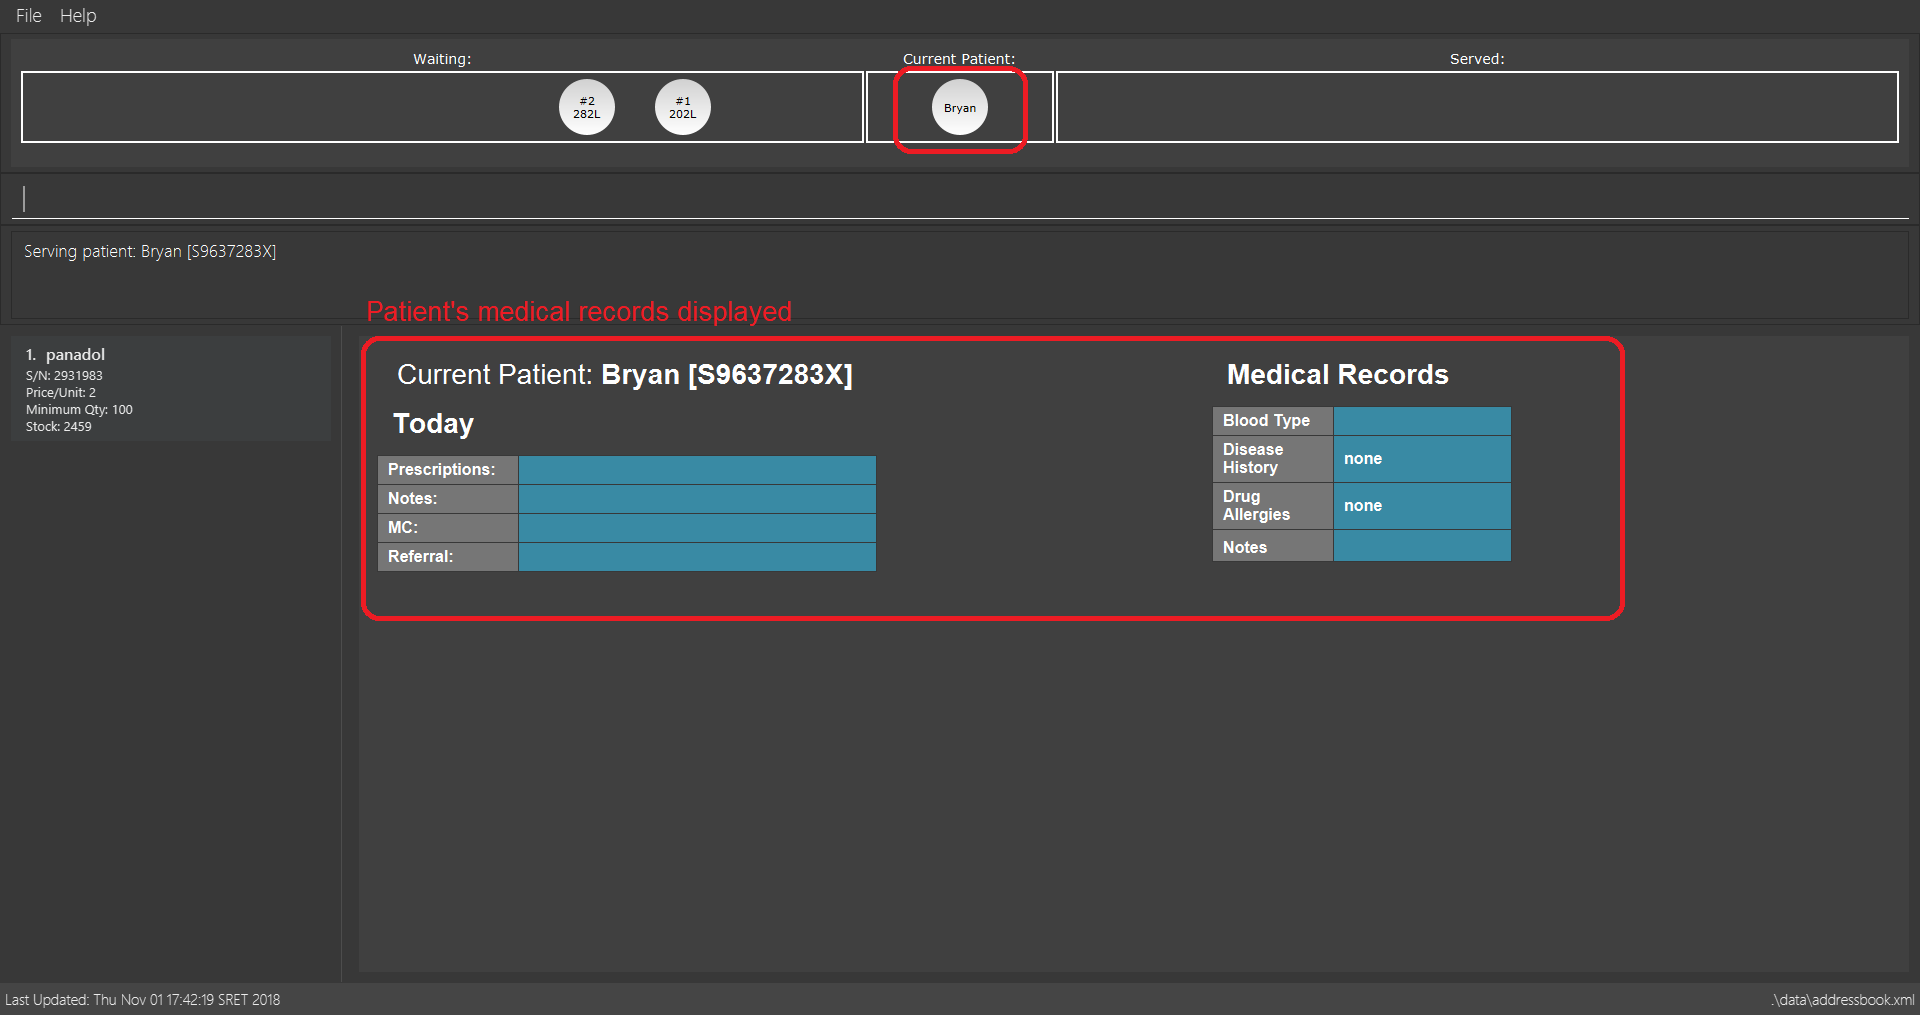
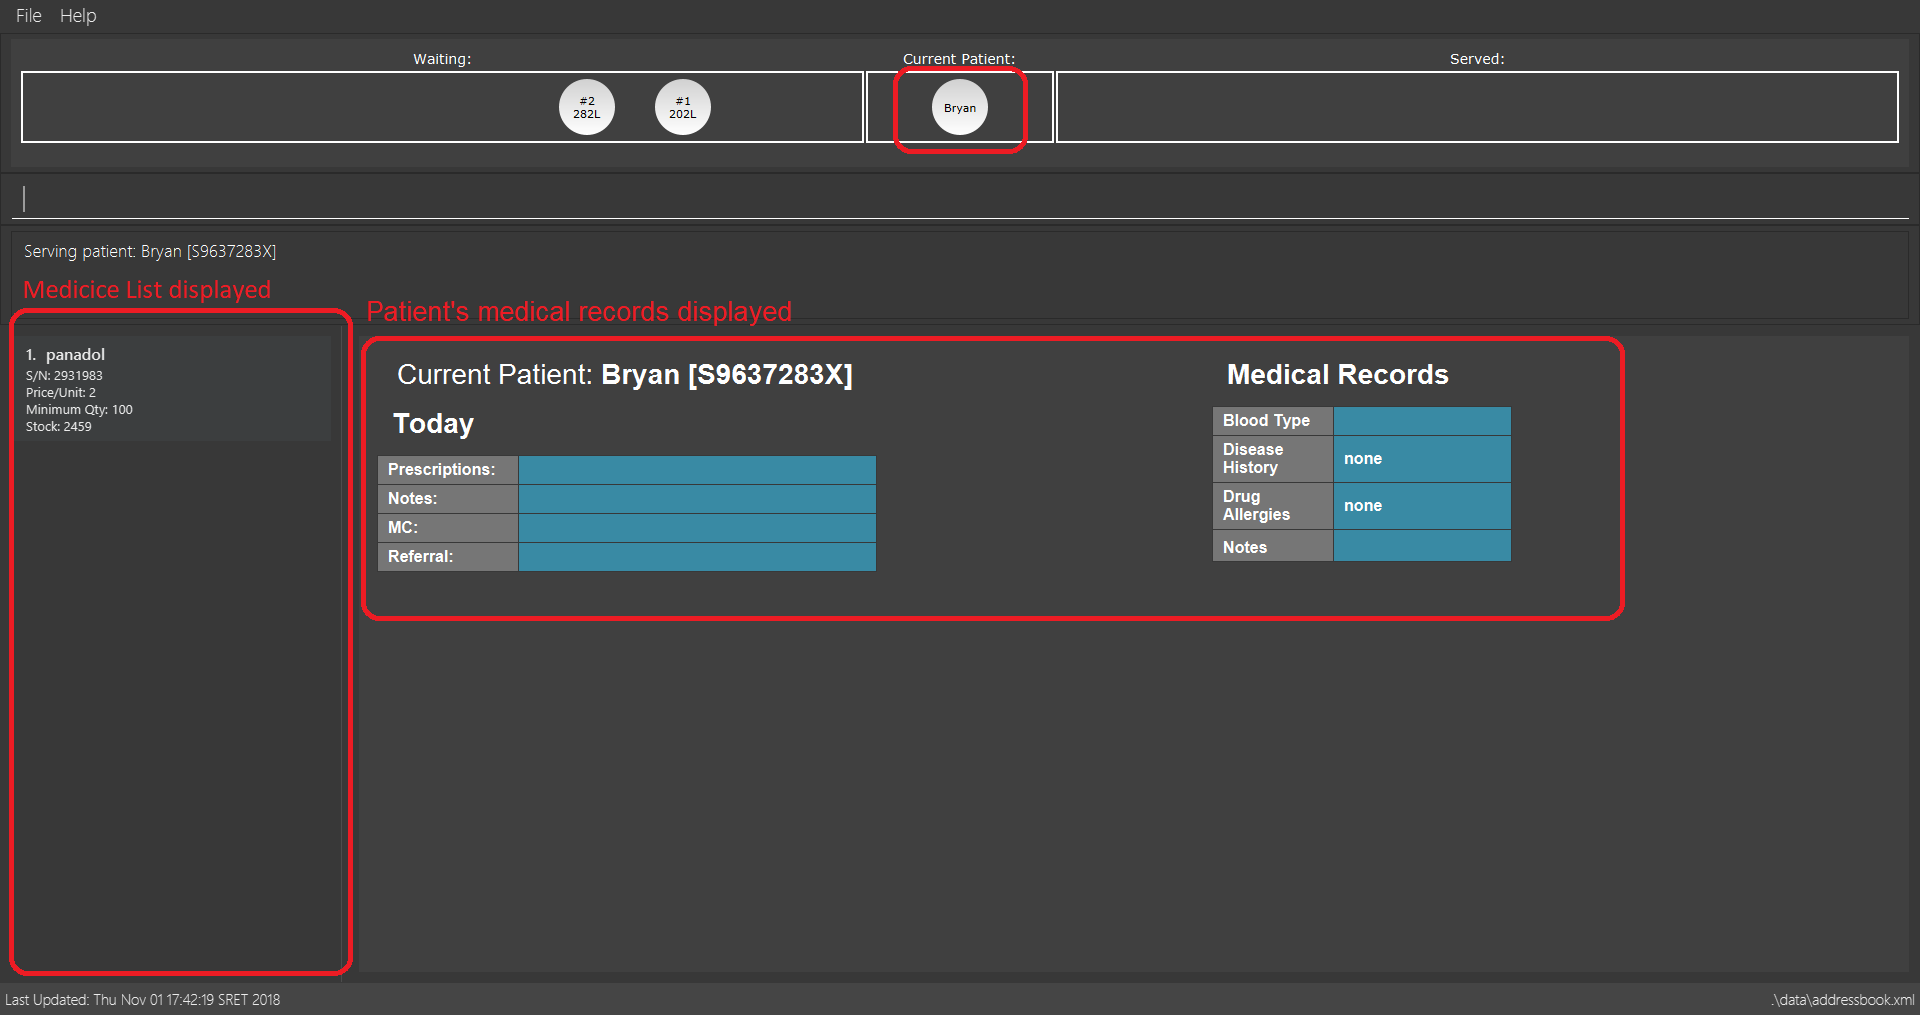
Fix display bugs with PQMS-commands Update UserGuide

Changed region(s): [[0.0, 0.9468, 0.1875, 0.9773], [0.0, 0.2749, 0.1562, 0.336], [0.1562, 0.3054, 0.1875, 0.336]]

diff --git a/src/main/resources/view/Documents/Receipt_For_Bryan_S9637283X.html b/src/main/resources/view/Documents/Receipt_For_Bryan_S9637283X.html
@@ -1,0 +1,81 @@
+<!DOCTYPE html>
+<html lang="en">
+<head>
+    <meta charset="UTF-8">
+    <title>Receipt for Bryan</title>
+    <script>
+        function loadDetails(titleString, headerString, nameString, icString, contentString) {
+            document.title = titleString;
+            document.getElementById("headerDiv").innerHTML = headerString;
+            document.getElementById("nameDiv").innerHTML = nameString;
+            document.getElementById("icDiv").innerHTML = icString;
+            document.getElementById("contentDiv").innerHTML = contentString;
+        }
+    </script>
+    <h1>
+        <img src = "../../images/CLInicLogo.PNG" alt = "CLInic's logo" align = "right" height="70px" width="350px">
+        <div class = "header" id="headerDiv">Receipt<br>Issued On: 01/11/2018 23:08:52</div>
+    </h1>
+</head>
+<div class="main">
+    <table>
+        <tr>
+            <td><div class = information>Name:</div></td>
+            <td><div class = field id="nameDiv">Bryan</div></td>
+        </tr>
+        <tr>
+            <td><div class = information>IC Number:</div></td>
+            <td><div class = field id="icDiv">S9637283X</div></td>
+        </tr>
+    </table>
+    <br>
+    <span id="contentDiv"><table ID = "contentTable" width = 100%><col width = "700"><tr ID = "receiptHeader"><div class="contentHeader"><th>Prescription</th><th>Quantity</th><th>Unit Price</th><th>Total Price</th></div></tr><tr ID = "receiptEnd"><td>Grand Total:</td><td>-</td><td>-</td><td>0.00</td></tr></table></span>
+    <br>
+    <span style=" display: block; text-align: center">Have a nice day!</span>
+</div>
+</html>
+
+<style>
+    html {
+        margin-left: 24px;
+        margin-right: 24px;
+        border-top: 2px solid black;
+        border-bottom: 2px solid black;
+    }
+    h1 {
+        border-bottom: 1px solid black;
+    }
+    .header {
+        font-size: 24px;
+        display: inline;
+    }
+    .main{
+        font-size: 20px;
+    }
+    .information{
+        font-weight: bold;
+    }
+    .field{
+        border-bottom: 1px solid black;
+    }
+    table {
+        border-collapse:collapse;
+    }
+    th, td {
+        text-align: left;
+        padding: 8px;
+    }
+    #receiptHeader{
+        font-weight: bold;
+        border-bottom: 1px solid black;
+    }
+
+    #receiptEnd{
+        border-top: 1px solid black;
+        font-weight: bold;
+    }
+    #contentTable tr:nth-child(even) {
+        background-color: #f2f2f2;
+        border-style: groove;
+    }
+</style>

diff --git a/src/main/resources/view/Documents/Referral_Letter_For_Bryan_S9637283X.html b/src/main/resources/view/Documents/Referral_Letter_For_Bryan_S9637283X.html
@@ -1,0 +1,81 @@
+<!DOCTYPE html>
+<html lang="en">
+<head>
+    <meta charset="UTF-8">
+    <title>Referral Letter for Bryan</title>
+    <script>
+        function loadDetails(titleString, headerString, nameString, icString, contentString) {
+            document.title = titleString;
+            document.getElementById("headerDiv").innerHTML = headerString;
+            document.getElementById("nameDiv").innerHTML = nameString;
+            document.getElementById("icDiv").innerHTML = icString;
+            document.getElementById("contentDiv").innerHTML = contentString;
+        }
+    </script>
+    <h1>
+        <img src = "../../images/CLInicLogo.PNG" alt = "CLInic's logo" align = "right" height="70px" width="350px">
+        <div class = "header" id="headerDiv">Referral Letter<br>Issued On: 01/11/2018 23:08:56</div>
+    </h1>
+</head>
+<div class="main">
+    <table>
+        <tr>
+            <td><div class = information>Name:</div></td>
+            <td><div class = field id="nameDiv">Bryan</div></td>
+        </tr>
+        <tr>
+            <td><div class = information>IC Number:</div></td>
+            <td><div class = field id="icDiv">S9637283X</div></td>
+        </tr>
+    </table>
+    <br>
+    <span id="contentDiv">Dear Specialist, please assist the above-named patient in the following matter:<br>yolosweg<br><br>Kindly do accept him under your care. Thank you very much.<br><br><b>Issuing Doctor:<b> DR CHESTER SNG<br><br></span>
+    <br>
+    <span style=" display: block; text-align: center">Have a nice day!</span>
+</div>
+</html>
+
+<style>
+    html {
+        margin-left: 24px;
+        margin-right: 24px;
+        border-top: 2px solid black;
+        border-bottom: 2px solid black;
+    }
+    h1 {
+        border-bottom: 1px solid black;
+    }
+    .header {
+        font-size: 24px;
+        display: inline;
+    }
+    .main{
+        font-size: 20px;
+    }
+    .information{
+        font-weight: bold;
+    }
+    .field{
+        border-bottom: 1px solid black;
+    }
+    table {
+        border-collapse:collapse;
+    }
+    th, td {
+        text-align: left;
+        padding: 8px;
+    }
+    #receiptHeader{
+        font-weight: bold;
+        border-bottom: 1px solid black;
+    }
+
+    #receiptEnd{
+        border-top: 1px solid black;
+        font-weight: bold;
+    }
+    #contentTable tr:nth-child(even) {
+        background-color: #f2f2f2;
+        border-style: groove;
+    }
+</style>

diff --git a/src/main/java/seedu/address/logic/LogicManager.java b/src/main/java/seedu/address/logic/LogicManager.java
@@ -11,8 +11,11 @@ import seedu.address.logic.commands.Command;
 import seedu.address.logic.commands.CommandResult;
 import seedu.address.logic.commands.DisplayQueueCommand;
 import seedu.address.logic.commands.DisplayServedPatientsCommand;
+import seedu.address.logic.commands.FinishCommand;
+import seedu.address.logic.commands.InsertCommand;
 import seedu.address.logic.commands.QueueCommand;
 import seedu.address.logic.commands.RegisterCommand;
+import seedu.address.logic.commands.RemoveCommand;
 import seedu.address.logic.commands.exceptions.CommandException;
 import seedu.address.logic.parser.AddressBookParser;
 import seedu.address.logic.parser.exceptions.ParseException;
@@ -65,7 +68,10 @@ public class LogicManager extends ComponentManager implements Logic {
             }
             if (command instanceof DisplayQueueCommand
                     || command instanceof RegisterCommand
-                    || command instanceof DisplayServedPatientsCommand) {
+                    || command instanceof DisplayServedPatientsCommand
+                    || command instanceof InsertCommand
+                    || command instanceof RemoveCommand
+                    || command instanceof FinishCommand) {
                 raise(new ShowQueueInformationEvent(patientQueue, servedPatientList, currentPatient));
             }
         }

diff --git a/src/main/java/seedu/address/logic/commands/FinishCommand.java b/src/main/java/seedu/address/logic/commands/FinishCommand.java
@@ -46,15 +46,16 @@ public class FinishCommand extends QueueCommand {
 
         String currentPatientNameIc = currentPatient.toNameAndIc();
         ServedPatient finishedPatient = currentPatient.finishServing();
-
+        Patient notUpdatedPatient = finishedPatient.getPatient();
         // Create a new patient object with the updated medical record
         Patient editedPatient = finishedPatient.createNewPatientWithUpdatedMedicalRecord();
 
         // Add finished patient to the servedPatientList
-        servedPatientList.addServedPatient(new ServedPatient(editedPatient));
+        finishedPatient.updatePatient(editedPatient);
+        servedPatientList.addServedPatient(finishedPatient);
 
         // Update this patient
-        model.updatePerson(finishedPatient.getPatient(), editedPatient);
+        model.updatePerson(notUpdatedPatient, editedPatient);
 
         EventsCenter.getInstance().post(new ShowPatientListEvent());
         EventsCenter.getInstance().post(new ShowQueueInformationEvent(patientQueue, servedPatientList, currentPatient));

diff --git a/src/main/java/seedu/address/model/person/ServedPatient.java b/src/main/java/seedu/address/model/person/ServedPatient.java
@@ -10,13 +10,12 @@ import seedu.address.model.medicine.QuantityToDispense;
 import seedu.address.model.person.medicalrecord.Note;
 
 /**
- * Uncompleted class, need to add more methods and fields.
  * Represents a patient that has already consulted the doctor in the address book.
  * It has all the necessary data needed to generate any object that inherits from document.
  */
 public class ServedPatient {
 
-    private final Patient patient;
+    private Patient patient;
     private String noteContent;
     private String referralContent;
     private String mcContent;
@@ -123,6 +122,12 @@ public class ServedPatient {
         return (this.patient).isSamePerson(patient);
     }
 
+    /**
+     * Update the patient if any information changes.
+     */
+    public void updatePatient(Patient patient) {
+        this.patient = patient;
+    }
     /**
      * @return a console-friendly representation of the patient.
      */

diff --git a/src/test/java/seedu/address/logic/commands/FinishCommandTest.java b/src/test/java/seedu/address/logic/commands/FinishCommandTest.java
@@ -53,7 +53,8 @@ public class FinishCommandTest {
         ServedPatient expectedServedPatient = new ServedPatient(ALICE);
         expectedServedPatient.addNoteContent("test");
         Patient patient = expectedServedPatient.createNewPatientWithUpdatedMedicalRecord();
-        expectedServedPatientList.addServedPatient(new ServedPatient(patient));
+        expectedServedPatient.updatePatient(patient);
+        expectedServedPatientList.addServedPatient(expectedServedPatient);
 
         String expectedMessage = MESSAGE_SUCCESS + currentPatient.toNameAndIc();
         currentPatient.addNoteContent("test");
